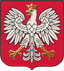
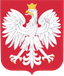
Aktualizacja strony 2026-10-16 (stan z 2026-10-15)

diff --git a/index.html b/index.html
@@ -22,7 +22,7 @@
 <header class="hdr">
   <div class="container hdr__in">
     <a class="logo" href="#top" aria-label="HERBY POLSKI — początek strony">
-      <img src="assets/herby/polska.webp" alt="" width="34" height="38">
+      <img src="assets/herby/polska.webp" alt="" width="34" height="40">
       <span>HERBY POLSKI<i>.pl</i></span>
     </a>
     <button class="burger" type="button" aria-label="Menu" aria-expanded="false" aria-controls="menu"><span></span><span></span><span></span></button>
@@ -52,7 +52,7 @@
     <div class="container hero__grid">
       <div class="emblem">
         <div class="emblem__glow" aria-hidden="true"></div>
-        <img src="assets/herby/polska.webp" alt="Herb Polski — orzeł biały w koronie na czerwonej tarczy" width="300" height="332">
+        <img src="assets/herby/polska.webp" alt="Herb Polski — orzeł biały w koronie na czerwonej tarczy" width="300" height="354">
       </div>
     </div>
   </div>
@@ -113,7 +113,7 @@
     <div class="plaque reveal" style="--d:.12s">
       <div class="plaque__pair">
         <figure class="plaque__pl">
-          <img src="assets/herby/polska.webp" alt="Herb Polski" width="200" height="221">
+          <img src="assets/herby/polska.webp" alt="Herb Polski" width="200" height="236">
           <figcaption class="brass brass--lg">HERB POLSKI</figcaption>
         </figure>
         <figure class="plaque__local">
@@ -143,7 +143,7 @@
     <div class="offer">
       <div class="offer__visual reveal">
         <div class="wood">
-          <img src="assets/herby/polska.webp" alt="" width="150" height="166" class="wood__pl">
+          <img src="assets/herby/polska.webp" alt="" width="150" height="177" class="wood__pl">
           <img src="assets/herby/liszki.svg" alt="" width="120" height="144" class="wood__local">
         </div>
         <p class="offer__caption">Herb Polski po lewej · herb gminy po prawej</p>
@@ -210,7 +210,7 @@
       <rect x="70" y="187.6" width="7" height="1.8" rx=".6" fill="#fff"/><rect x="82" y="187.9" width="4" height="1.5" rx=".6" fill="#F4D35E"/>
 
       <!-- herb Polski ok. 40 cm -->
-      <image href="assets/herby/polska.webp" x="123.1" y="30" width="36.2" height="40" filter="url(#wv-shadow)"/>
+      <image href="assets/herby/polska.webp" x="125.4" y="30" width="33.9" height="40" filter="url(#wv-shadow)"/>
       <!-- herb gminy ok. 25 cm -->
       <image href="assets/herby/liszki.svg" x="173.3" y="37.5" width="20.8" height="25" filter="url(#wv-shadow)"/>
 
@@ -218,11 +218,11 @@
       <g class="dim-line" fill="none">
         <path d="M120 30 V70 M118.5 30 H121.5 M118.5 70 H121.5"/>
         <path d="M199.5 37.5 V62.5 M198 37.5 H201 M198 62.5 H201"/>
-        <path d="M123.1 22 H194.1 M123.1 20.5 V23.5 M194.1 20.5 V23.5" stroke-dasharray="1.2 1"/>
+        <path d="M125.4 22 H194.1 M125.4 20.5 V23.5 M194.1 20.5 V23.5" stroke-dasharray="1.2 1"/>
       </g>
       <text class="dim" x="117" y="50" text-anchor="middle" transform="rotate(-90 117 50)">ok. 40 cm</text>
       <text class="dim" x="204.5" y="50" text-anchor="middle" transform="rotate(-90 204.5 50)">ok. 25 cm</text>
-      <text class="dim" x="158.6" y="19.5" text-anchor="middle">cały zestaw ok. 0,7 m</text>
+      <text class="dim" x="159.8" y="19.5" text-anchor="middle">cały zestaw ok. 0,7 m</text>
     </svg>
   </div>
   <figcaption class="wall-viz__controls">
@@ -304,7 +304,7 @@
 
 <footer class="ftr">
   <div class="container ftr__in">
-    <a class="logo logo--light" href="#top"><img src="assets/herby/polska.webp" alt="" width="34" height="38"><span>HERBY POLSKI<i>.pl</i></span></a>
+    <a class="logo logo--light" href="#top"><img src="assets/herby/polska.webp" alt="" width="34" height="40"><span>HERBY POLSKI<i>.pl</i></span></a>
     <nav aria-label="Stopka">
       <a href="#o-projekcie">O Projekcie</a><a href="#gminy">Oferta dla Miast i Gmin</a><a href="#szkoly">Oferta dla Szkół</a><a href="#galeria">Nasze realizacje</a><a href="#kontakt">Kontakt</a>
     </nav>

diff --git a/css/premium.css b/css/premium.css
@@ -255,6 +255,29 @@ p { margin: 0 0 1em; }
 .frames > li { display: flex; }
 .frame img { height: 125px; width: auto; max-width: 100%; object-fit: contain; margin-bottom: 1rem; filter: drop-shadow(0 10px 10px rgba(60,10,20,.25)); transition: transform .45s var(--ease); }
 .frame:hover img { transform: scale(1.06); }
+
+/* Połysk złoceń herbu: nad herbem leży warstwa samych złoceń (rozjaśnione złoto).
+   .gilded__shine — pulsujący blask; .gilded__glint — odblask przesuwający się po złoceniach.
+   Maska odblasku to gradient CSS (bez pobierania plików) — działa też z file://. */
+.gilded { position: relative; display: inline-block; line-height: 0; transition: transform .45s var(--ease); }
+.gilded > img { display: block; margin: 0 !important; }
+.gilded > .gilded__shine, .gilded > .gilded__glint { position: absolute; inset: 0; width: 100% !important; height: 100% !important; max-width: none; filter: none !important; pointer-events: none; }
+.gilded__shine { opacity: 0; animation: gild-glow 3.6s ease-in-out infinite; }
+.gilded > .gilded__glint { filter: brightness(1.55) saturate(.85) !important; }
+.gilded__glint {
+  -webkit-mask-image: linear-gradient(105deg, transparent 41%, #000 50%, transparent 59%);
+          mask-image: linear-gradient(105deg, transparent 41%, #000 50%, transparent 59%);
+  -webkit-mask-size: 300% 100%; mask-size: 300% 100%;
+  -webkit-mask-repeat: no-repeat; mask-repeat: no-repeat;
+  -webkit-mask-position: 100% 0; mask-position: 100% 0;
+  animation: gild-sweep 3.6s cubic-bezier(.45, 0, .35, 1) infinite; }
+@keyframes gild-sweep {
+  0% { -webkit-mask-position: 100% 0; mask-position: 100% 0; }
+  60%, 100% { -webkit-mask-position: 0% 0; mask-position: 0% 0; } }
+@keyframes gild-glow { 0%, 100% { opacity: 0; } 35% { opacity: .6; } 65% { opacity: .15; } }
+.frame .gilded { margin-bottom: 1rem; }
+.frame:hover .gilded { transform: scale(1.06); }
+.frame:hover .gilded img { transform: none; }
 .frame h3 { font: 600 .92rem/1.2 var(--f-caps); letter-spacing: .06em; margin-bottom: .3rem; }
 .frame p { margin: 0; font-size: .82rem; color: var(--muted); line-height: 1.45; }
 .frame__more { margin-top: .8rem; font: 600 .68rem var(--f-caps); letter-spacing: .16em; color: var(--red); }
@@ -313,8 +336,7 @@ p { margin: 0 0 1em; }
 .place__pair { display: flex; align-items: flex-end; justify-content: center; gap: clamp(1rem, 4vw, 2.5rem); padding-bottom: 1.75rem; }
 .place__pair figure { margin: 0; display: flex; flex-direction: column; align-items: center; gap: .9rem; }
 .place__pair img { height: auto; filter: drop-shadow(0 16px 18px rgba(60,5,15,.4)); }
-.place__pair .pl img { height: clamp(150px, 20vw, 228px); width: auto; }
-.place__pair .loc img { height: clamp(112px, 15vw, 172px); width: auto; }
+.place__pair .loc img { height: clamp(150px, 20vw, 228px); width: auto; }
 .place__body { display: grid; grid-template-columns: 1.3fr 1fr; gap: clamp(1.5rem, 4vw, 2.5rem); padding: clamp(1.5rem, 4vw, 2.5rem) clamp(1.25rem, 4vw, 3rem) clamp(2rem, 4vw, 3rem); }
 .place__body h3 { font-size: 1.5rem; margin-top: 1.4rem; }
 .place__body h3:first-child { margin-top: 0; }

diff --git a/js/premium.js b/js/premium.js
@@ -58,12 +58,20 @@
   }
   $$('.reveal').forEach(el => observe(el));
 
+  /* ---------- Herb z opcjonalnym połyskiem złoceń (pole „zloto” w danych) ---------- */
+  const herbImg = (h, attrs) => {
+    const img = `<img src="${esc(h.herb)}" ${attrs}>`;
+    if (!h.zloto) return img;
+    const layer = cls => `<img class="${cls}" src="${esc(h.zloto)}" alt="" aria-hidden="true">`;
+    return `<span class="gilded">${img}${layer("gilded__shine")}${layer("gilded__glint")}</span>`;
+  };
+
   /* ---------- Galeria herbów ---------- */
   const list = $('[data-gallery]');
   const card = (h, i) => `
     <li class="reveal" style="--d:${(i % 6) * .06}s">
       <button class="frame" type="button" data-open="${esc(h.slug)}" aria-haspopup="dialog">
-        <img src="${esc(h.herb)}" alt="" width="104" height="125" loading="lazy">
+        ${herbImg(h, 'alt="" width="104" height="125" loading="lazy"')}
         <h3>${esc(h.nazwa)}</h3>
         <p>${esc(h.krotko)}</p>
         <span class="frame__more">Poznaj miejsce</span>
@@ -101,8 +109,7 @@
         <h2 id="place-title">${esc(h.nazwa)}</h2>
         <p>${h.typ === 'gmina' ? 'Gmina' : 'Miasto'} · woj. ${esc(h.wojewodztwo)}</p>
         <div class="place__pair">
-          <figure class="pl"><img src="assets/herby/polska.webp" alt="Herb Polski"><figcaption class="brass brass--lg">HERB POLSKI</figcaption></figure>
-          <figure class="loc"><img src="${esc(h.herb)}" alt="Herb: ${esc(h.nazwa)}"><figcaption class="brass">${esc(h.nazwa)}</figcaption></figure>
+          <figure class="loc">${herbImg(h, `alt="Herb: ${esc(h.nazwa)}"`)}<figcaption class="brass brass--lg">${esc(h.nazwa)}</figcaption></figure>
         </div>
       </div>
       <div class="place__body">

diff --git a/js/herby-data.js b/js/herby-data.js
@@ -7,7 +7,10 @@
    3. Pole "typ": "miasto" albo "gmina".
    4. "strona" (opcjonalnie) — adres oficjalnej strony miasta/gminy; przycisk
       „Zaplanuj wizytę” w karcie herbu otworzy ją w nowej karcie (bez pola → formularz kontaktowy).
-   5. "zweryfikuj: true" wyświetla na karcie dopisek, że opis czeka na
+   5. "zloto" (opcjonalnie) — warstwa złoceń herbu (WebP z przezroczystością, ten sam rozmiar
+      co plik herbu); złocone elementy dostają animowany połysk. Warstwę robi
+      narzedzia/generuj-warstwe-zlocen.js.
+   6. "zweryfikuj: true" wyświetla na karcie dopisek, że opis czeka na
       zatwierdzenie przez urząd — usuń go po weryfikacji treści.
    ========================================================================== */
 
@@ -18,6 +21,7 @@ window.HERBY = [
     typ: 'miasto',
     wojewodztwo: 'małopolskie',
     herb: 'assets/herby/krakow.webp',
+    zloto: 'assets/herby/krakow-zloto.webp',
     krotko: 'Królewskie miasto pod Wawelem',
     symbolika:
       'W błękitnym polu czerwony, ceglany mur z trzema blankowanymi wieżami i otwartą bramą o złotych wrotach i podniesionej bronie; w bramie biały orzeł w koronie, a nad tarczą korona. ' +
